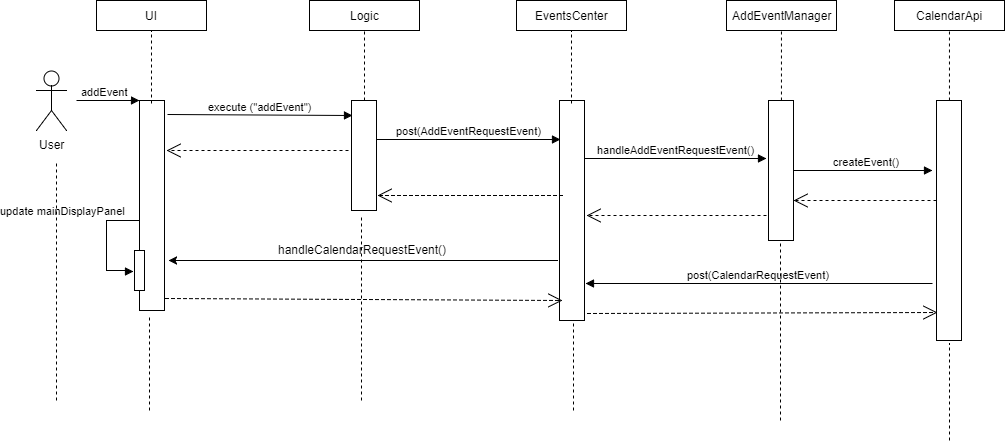
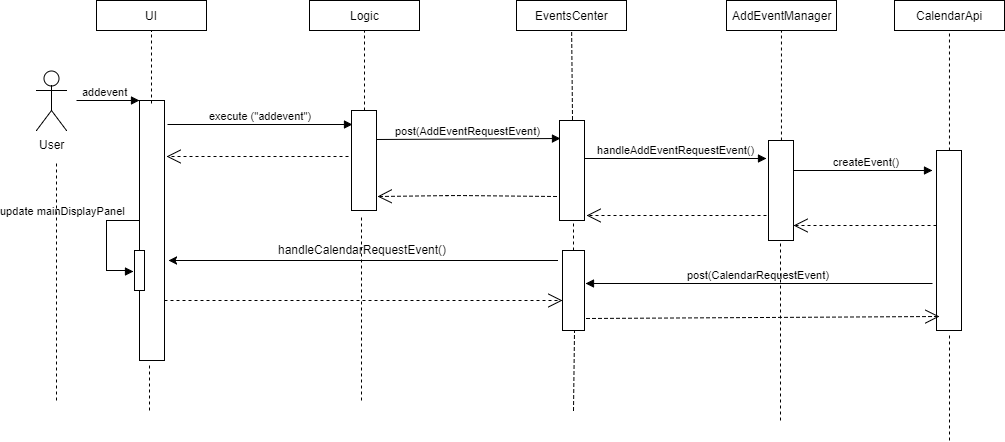
Renamed addevent command

diff --git a/src/main/java/seedu/address/logic/commands/AddEventCommand.java b/src/main/java/seedu/address/logic/commands/AddEventCommand.java
@@ -21,7 +21,7 @@ import seedu.address.model.calendarevent.ReadOnlyCalendarEvent;
  */
 public class AddEventCommand extends Command {
 
-    public static final String COMMAND_WORD = "addEvent";
+    public static final String COMMAND_WORD = "addevent";
 
     public static final String MESSAGE_USAGE = COMMAND_WORD + ": Adds a event to the google calendar. "
             + "Parameters: "
